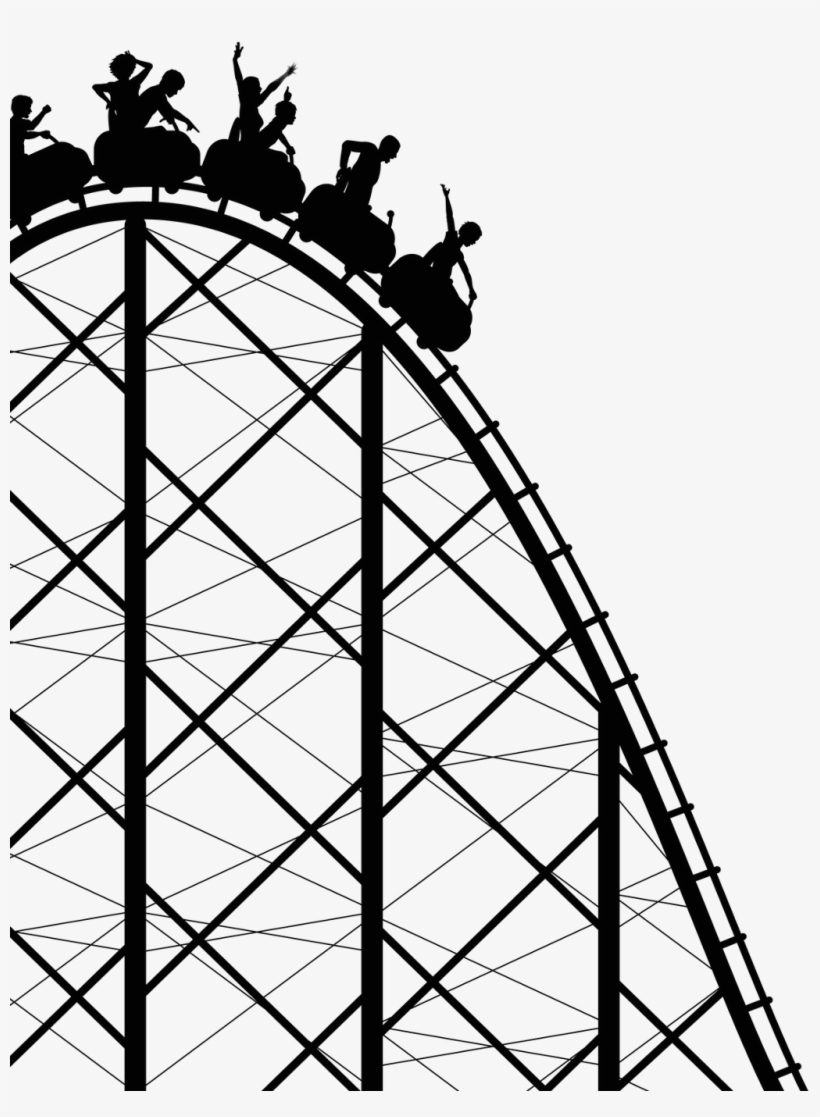
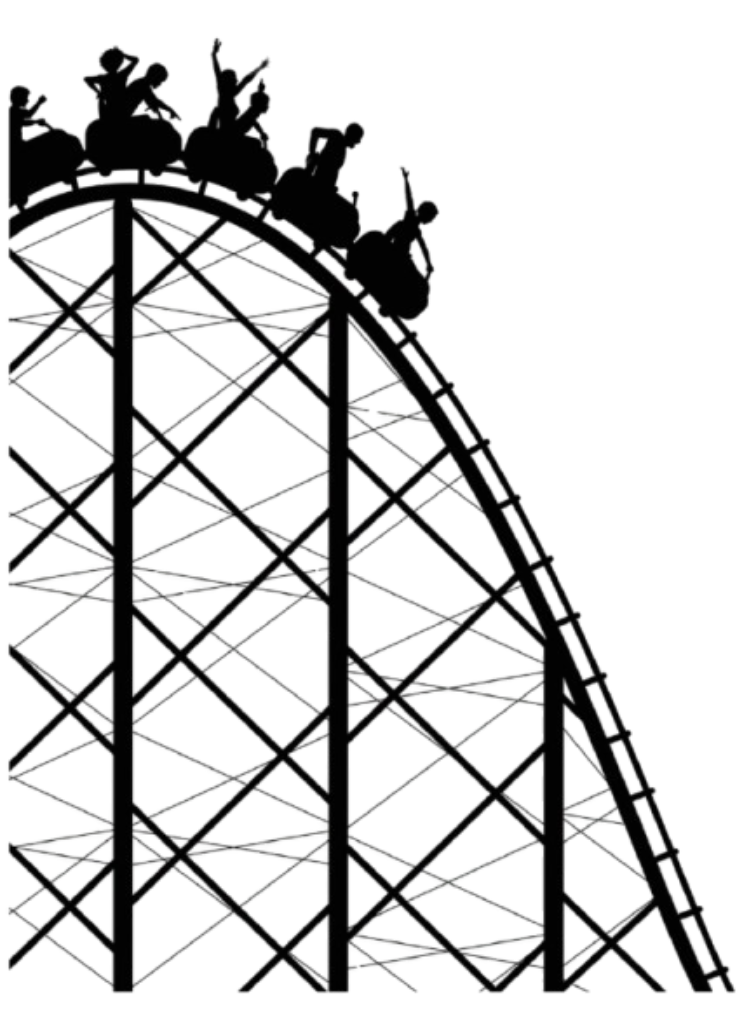
Refine hero asset and settings interactions

diff --git a/src/App.jsx b/src/App.jsx
@@ -1,4 +1,4 @@
-import { useEffect, useState } from "react";
+import { useEffect, useRef, useState } from "react";
 
 const sections = [
   {
@@ -291,6 +291,79 @@ const motionLesson = {
       body: [
         "These equations let students connect the coaster's motion to measurable changes in position, time, speed, and curvature.",
       ],
+    },
+    {
+      id: "variables",
+      label: "Variables",
+      title: "What Each Variable Means",
+      body: [
+        "Before students use the equations confidently, they should know what each symbol stands for and what kind of quantity it represents.",
+        "This keeps the formulas from feeling like random letters and helps students connect the math to the ride itself.",
+      ],
+      variables: [
+        {
+          symbol: "x",
+          meaning: "position",
+          note: "Where the coaster is along the track.",
+        },
+        {
+          symbol: "Δx",
+          meaning: "displacement",
+          note: "The change in position from start to finish.",
+        },
+        {
+          symbol: "t",
+          meaning: "time",
+          note: "How long the motion takes.",
+        },
+        {
+          symbol: "Δt",
+          meaning: "change in time",
+          note: "The time interval being measured.",
+        },
+        {
+          symbol: "v",
+          meaning: "velocity",
+          note: "How fast the coaster moves and in what direction.",
+        },
+        {
+          symbol: "vavg",
+          meaning: "average velocity",
+          note: "The total displacement divided by total time.",
+        },
+        {
+          symbol: "v₀",
+          meaning: "initial velocity",
+          note: "The coaster's starting velocity before a motion segment begins.",
+        },
+        {
+          symbol: "Δv",
+          meaning: "change in velocity",
+          note: "How much the velocity changes over time.",
+        },
+        {
+          symbol: "a",
+          meaning: "acceleration",
+          note: "How quickly velocity changes.",
+        },
+        {
+          symbol: "aavg",
+          meaning: "average acceleration",
+          note: "The total change in velocity divided by total time.",
+        },
+        {
+          symbol: "ac",
+          meaning: "centripetal acceleration",
+          note: "The inward acceleration that changes the coaster's direction on a curve.",
+        },
+        {
+          symbol: "r",
+          meaning: "radius of curvature",
+          note: "How tight the turn or curve is.",
+        },
+      ],
+      callout:
+        "A good habit is to pause before solving and label every symbol in the equation with its physical meaning.",
     },
     {
       id: "examples",
@@ -591,13 +664,14 @@ const MotionLessonView = ({
             <button
               type="button"
               onClick={() => setTocOpen((open) => !open)}
-              className={`inline-flex items-center rounded-full border px-3 py-2 text-xs font-semibold uppercase tracking-[0.16em] transition ${
+              className={`inline-flex h-10 w-10 items-center justify-center rounded-full border text-lg font-semibold transition ${
                 isDark
                   ? "border-white/10 bg-white/5 text-white hover:bg-white/10"
                   : "border-slate-300 bg-white/80 text-slate-900 hover:bg-white"
               }`}
+              aria-label={tocOpen ? "Collapse lesson outline" : "Expand lesson outline"}
             >
-              {tocOpen ? "Collapse" : "Expand"}
+              {tocOpen ? "-" : "+"}
             </button>
           </div>
 
@@ -713,9 +787,51 @@ const MotionLessonView = ({
                     {item.label}
                   </p>
                   <div
-                    className={`mt-4 overflow-x-auto pb-2 font-display text-2xl font-semibold leading-[1.35] tracking-tight sm:text-3xl ${titleClass}`}
+                    className={`mt-4 overflow-x-auto pb-3 font-serif text-[1.8rem] font-normal leading-[1.5] tracking-normal sm:text-[2.15rem] ${titleClass}`}
                   >
                     {item.expression}
+                  </div>
+                </div>
+              ))}
+            </div>
+          ) : null}
+
+          {step.variables ? (
+            <div className="mt-6 grid gap-4 sm:grid-cols-2">
+              {step.variables.map((item) => (
+                <div key={item.symbol} className={`rounded-3xl border p-5 ${subtlePanelClass}`}>
+                  <div className="flex items-start gap-4">
+                    <div
+                      className={`min-w-[5.5rem] rounded-2xl border px-3 py-3 text-center font-serif text-2xl font-normal leading-none ${
+                        isDark
+                          ? "border-white/10 bg-white/[0.04] text-white"
+                          : "border-slate-300/70 bg-white/80 text-slate-900"
+                      }`}
+                    >
+                      {item.symbol === "vavg" ? (
+                        <>
+                          v<sub>avg</sub>
+                        </>
+                      ) : item.symbol === "aavg" ? (
+                        <>
+                          a<sub>avg</sub>
+                        </>
+                      ) : item.symbol === "ac" ? (
+                        <>
+                          a<sub>c</sub>
+                        </>
+                      ) : (
+                        item.symbol
+                      )}
+                    </div>
+                    <div>
+                      <p className={`text-lg font-semibold capitalize ${titleClass}`}>
+                        {item.meaning}
+                      </p>
+                      <p className={`mt-2 text-base leading-7 ${copyClass}`}>
+                        {item.note}
+                      </p>
+                    </div>
                   </div>
                 </div>
               ))}
@@ -973,6 +1089,7 @@ const App = () => {
   const [settingsOpen, setSettingsOpen] = useState(false);
   const [view, setView] = useState("overview");
   const [motionStepIndex, setMotionStepIndex] = useState(0);
+  const settingsRef = useRef(null);
 
   useEffect(() => {
     const savedTheme = window.localStorage.getItem("coasterphysics-theme");
@@ -989,6 +1106,26 @@ const App = () => {
   useEffect(() => {
     window.scrollTo({ top: 0, behavior: "smooth" });
   }, [view]);
+
+  useEffect(() => {
+    if (!settingsOpen) {
+      return;
+    }
+
+    const handlePointerDown = (event) => {
+      if (!settingsRef.current?.contains(event.target)) {
+        setSettingsOpen(false);
+      }
+    };
+
+    document.addEventListener("mousedown", handlePointerDown);
+    document.addEventListener("touchstart", handlePointerDown);
+
+    return () => {
+      document.removeEventListener("mousedown", handlePointerDown);
+      document.removeEventListener("touchstart", handlePointerDown);
+    };
+  }, [settingsOpen]);
 
   const isDark = theme === "dark";
   const panelClass = isDark
@@ -1015,7 +1152,7 @@ const App = () => {
   return (
     <main className="section-shell py-10 sm:py-12 lg:py-16">
       <div className="flex justify-end">
-        <div className="relative">
+        <div ref={settingsRef} className="relative">
           <button
             type="button"
             onClick={() => setSettingsOpen((open) => !open)}
@@ -1026,9 +1163,7 @@ const App = () => {
             }`}
           >
             Settings
-            <span className={`text-xs ${mutedClass}`}>
-              {settingsOpen ? "Close" : "Open"}
-            </span>
+            <span className={`text-xs ${mutedClass}`}>{settingsOpen ? "-" : "+"}</span>
           </button>
 
           {settingsOpen ? (
@@ -1101,7 +1236,11 @@ const App = () => {
               </h1>
 
               <p className={`mt-8 max-w-2xl text-xl leading-[1.7] sm:text-2xl ${copyClass}`}>
-                learn physics through roller coasters.
+                Coasterphysics grew out of my obsession with roller coasters and
+                the questions they kept sparking. This project turns that
+                curiosity into a mission: use rides, drops, loops, and airtime
+                to make physics feel visual, personal, and exciting for other
+                students too.
               </p>
 
               <div className="mt-10">
@@ -1114,31 +1253,17 @@ const App = () => {
               </div>
             </div>
 
-            <div className="relative mx-auto w-full max-w-xl">
+            <div className="relative mx-auto flex w-full max-w-xl items-end justify-center lg:min-h-[40rem]">
               <div
-                className={`absolute inset-0 rounded-[2.5rem] blur-3xl ${
-                  isDark ? "bg-cyan-300/10" : "bg-sky-200/50"
+                className={`absolute inset-x-[14%] inset-y-[18%] rounded-full blur-[90px] ${
+                  isDark ? "bg-white/28" : "bg-slate-300/35"
                 }`}
               />
-              <div
-                className={`relative overflow-hidden rounded-[2.5rem] border p-4 sm:p-6 ${
-                  isDark
-                    ? "border-white/10 bg-white/[0.02]"
-                    : "border-slate-200/80 bg-white/55"
-                }`}
-              >
-                <div className="relative isolate">
-                  <img
-                    src="/roller-coaster-hero.png"
-                    alt="Roller coaster silhouette cresting a hill"
-                    className={`h-auto w-full object-contain ${
-                      isDark
-                        ? "invert contrast-125 brightness-125 mix-blend-screen opacity-95"
-                        : "mix-blend-multiply opacity-90"
-                    }`}
-                  />
-                </div>
-              </div>
+              <img
+                src="/roller-coaster-hero.png"
+                alt="Roller coaster silhouette cresting a hill"
+                className="relative h-[24rem] w-auto max-w-full object-contain sm:h-[30rem] lg:h-[40rem]"
+              />
             </div>
           </section>
 